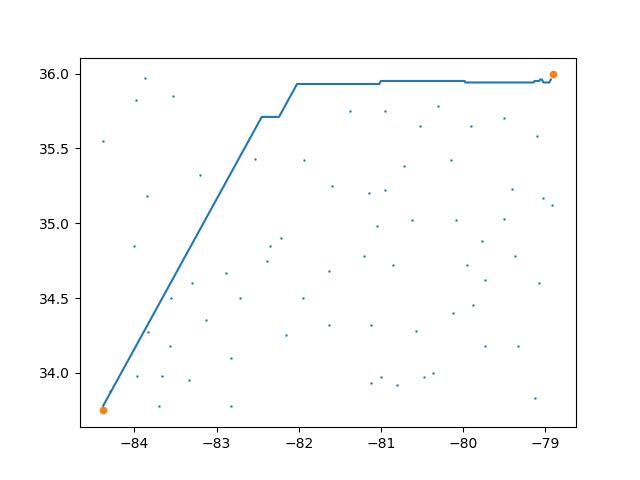
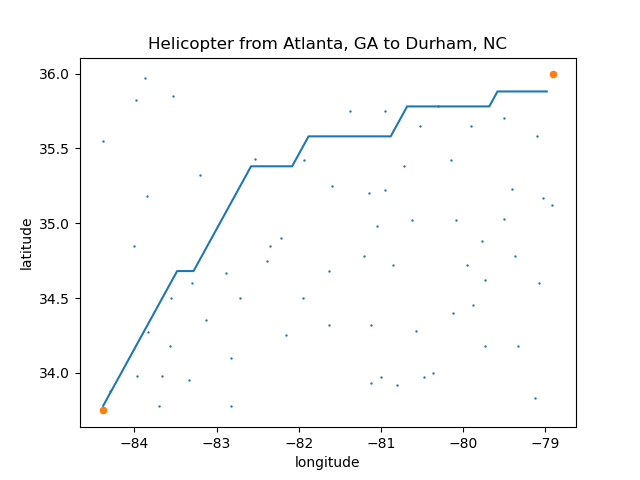
Integrate Risk Model with Path Planner

diff --git a/src/data_solver.py b/src/data_solver.py
@@ -9,9 +9,11 @@ import geopandas as gpd
 from geopandas import GeoDataFrame
 from scipy.interpolate import interp1d
 import heapq
+import pickle
 
 
 save_path = os.path.join("data")
+src_path = os.path.join("src")
 save_image_path = os.path.join("saved_figures")
 
 class Node:
@@ -148,9 +150,23 @@ def find_relevant_points(given_data, user_lats, user_lons):
     return relevant_data
 
 def generate_risk_assessments(given_data, wind_speed, temp_c, dewpoint_c):
+    # Glorious risk model
+    model_path = os.path.join(src_path, 'model.pickle')
+    model = pickle.load(open(model_path, 'rb'))
+
+    inputs = given_data['visibility_statute_mi']
+    
     risk_array = np.empty((len(given_data), 1))
     for i in range(0, len(given_data)):
-        risk_array[i] = wind_speed[i] ** 2 + temp_c[i] ** (1/2) + abs(dewpoint_c[i]) ** (1/2)
+        # Get prediction for this data entry
+        prediction = model.predict(pd.DataFrame([float(inputs.iloc[i])], columns=['visibility_statute_mi']))
+
+        # Assign risk based on prediction
+        if prediction == 'SPECI':
+            risk_array[i] = 500
+        else:
+            risk_array[i] = 0
+        
     return risk_array
 
 def interpolate_metrics(given_data, point_density, risk_array): #given_data should be sorted ascending in altitude
@@ -307,7 +323,7 @@ def get_lat_lons_from_path(best_path, lat_lon_data, lat_len, long_len):
     
     return lat_lon_table
 
-def plot_user_final_path(given_data, path_data, given_lats, given_lons, save_name):
+def plot_user_final_path(given_data, path_data, given_lats, given_lons, save_name, lat2, lon2):
     plt.scatter(given_data['longitude'], given_data['latitude'], s = 0.5)
     plt.scatter(given_lons, given_lats, s = 20)
     plt.plot(path_data[:, 1], path_data[:, 0])
@@ -349,7 +365,7 @@ def main():
     best_path= a_star(penalty_graph, long_length, lat_length)
     best_path_cost = get_path_cost(penalty_graph, best_path)
     lat_lon_path = get_lat_lons_from_path(best_path, weighted_risk_matrix, lat_length, long_length)
-    plot_user_final_path(relevant_user_data, lat_lon_path, given_lats, given_lons, 'atlanta_durham_path.png')
+    plot_user_final_path(relevant_user_data, lat_lon_path, given_lats, given_lons, 'atlanta_durham_path.png', lat2, lon2)
     print('test')
 
 if __name__ == "__main__":

diff --git a/src/tester.py b/src/tester.py
@@ -1,0 +1,9 @@
+import os
+import pickle
+
+print(os.path.abspath(os.path.join(os.pardir, 'src', 'model.pickle')))
+# binFile = open(os.path.abspath(os.path.join(os.pardir, 'src', 'model.pickle')))
+# model = pickle.load(binFile, 'rb')
+# print(model)
+
+open(os.path.abspath(os.path.join(os.pardir, 'src', 'junk.py')))
